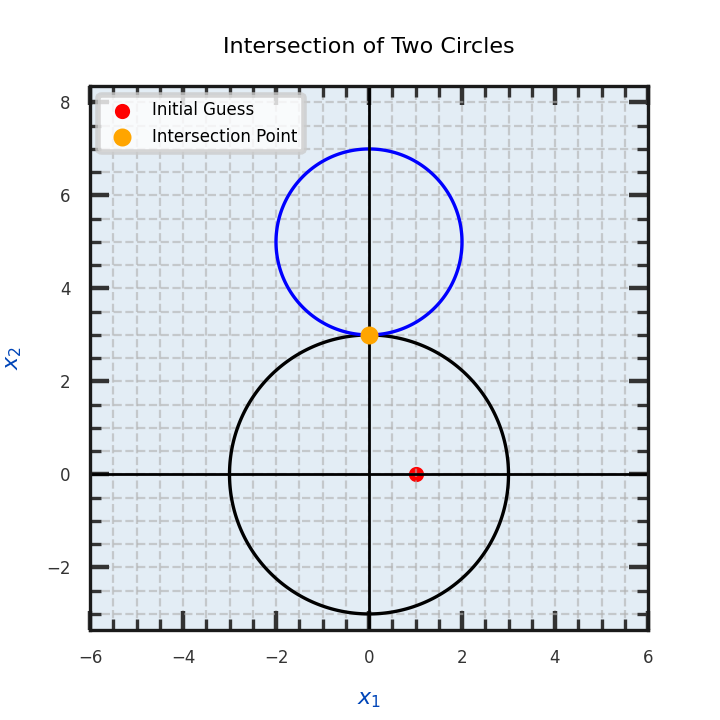
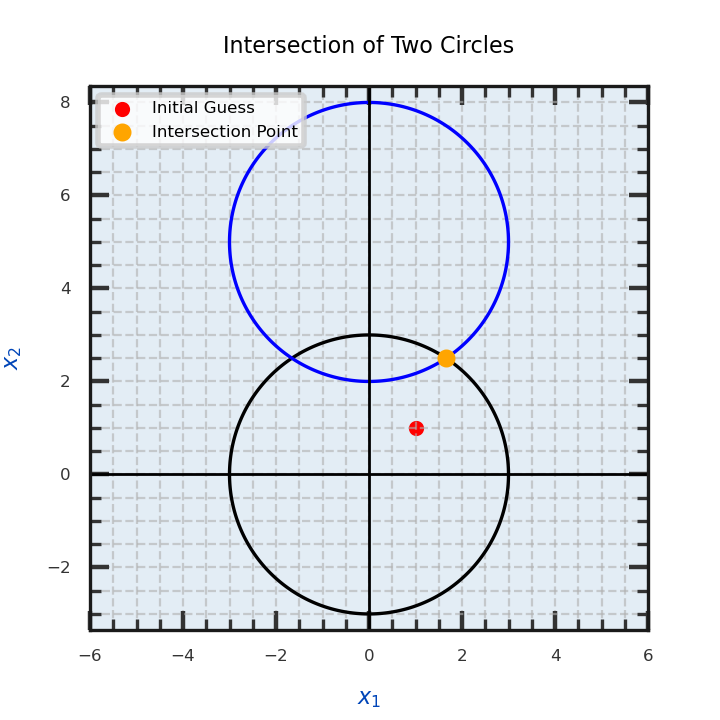
Add files via upload
before indexing

diff --git a/Abgabe/newton_examples.py b/Abgabe/newton_examples.py
@@ -52,7 +52,7 @@ def ex1(x_init):
     # Visualize the solution
     x1_vals = np.linspace(-3, 3, 400)
     x2_vals = np.linspace(-3, 3, 400)
-    #plot_intersection(f1, J1, x_init, 'Intersection of a Circle and a Hyperbola', x1_vals, x2_vals)
+    plot_intersection(f1, J1, x_init, 'Intersection of a Circle and a Hyperbola', x1_vals, x2_vals)
 
     return
 
@@ -101,14 +101,14 @@ def ex2(x_init):
     # Visualise the solution
     x1_vals = np.linspace(-6, 6, 400)
     x2_vals = np.linspace(-3, 8, 400)
-    #plot_intersection(f2, J2, x_init, 'Intersection of Two Circles', x1_vals, x2_vals)       
+    plot_intersection(f2, J2, x_init, 'Intersection of Two Circles', x1_vals, x2_vals)       
     return
 
-x_init = [1.0, 1.0]
-ex2(x_init)
+#x_init = [1.0, 1.0]
+#ex2(x_init)
 
 # Example 3: Three intersecting spheres
-def ex3():
+def ex3(x_init):
     # Function
     def f3(x):
         m1 = [2.0, 0.0, -1.0]
@@ -132,12 +132,7 @@ def ex3():
         [2 * (x[0] - 1.0), 2 * (x[1] - 2.0), 2 * (x[2] - 0.0)],
         [2 * (x[0] - 0.0), 2 * (x[1] - 0.0), 2 * (x[2] - (-2.0))]
         ])
-    
-    # Initial guess
-    #x_init = [1.0, 0.0, -1.0]
-    x_init = [-1.0, 0.0, 1.0] # am schnellsten!
-    #x_init = [-1.0, 0.0, -1.0]
-    
+        
     # MYSOLVER
     x, k_end = newton_method1(f3, J3, x_init)
     
@@ -177,6 +172,7 @@ def ex4(x_init):
 
     # MYSOLVER
     x, k_end = newton_method1(f4, J4, x_init)
+    print(k_end)
 
     # FSOLVER
     sol = fsolve(f4, x_init)  # Löse nichtlineares Gleichungssystem    
@@ -191,8 +187,15 @@ def ex4(x_init):
     # Visualise the solution
     x1_vals = np.linspace(-6, 6, 400)
     x2_vals = np.linspace(-3, 8, 400)
-    plot_intersection(f4, J4, x_init, 'Intersection of Two Circles', x1_vals, x2_vals)       
+    plot_intersection(f4, J4, x_init, 'Two Circles not intersecting', x1_vals, x2_vals)       
     return
 
-x_init = [1.0, 0.0] 
-ex4(x_init)
+
+
+#x_init = [1.0, 0.0] 
+#ex4(x_init)
+
+# Initial guess
+#x_init = [1.0, 0.0, -1.0]
+#x_init = [-1.0, 0.0, 1.0] # am schnellsten!
+#x_init = [-1.0, 0.0, -1.0]

diff --git a/Abgabe/newton_more_variables.py b/Abgabe/newton_more_variables.py
@@ -11,6 +11,7 @@ from scipy.optimize import fsolve
 from scipy.linalg import qr
 from num1a_p1_main import back_sub
 
+
 # MYSOLVER
 def newton_method1(f, J, x_init, tolerance = 1e-10, k_max=100):
     
@@ -29,37 +30,41 @@ def newton_method1(f, J, x_init, tolerance = 1e-10, k_max=100):
     if len(f(x)) != n_unknowns:
         raise ValueError("The number of equations must be equal to the number of unknowns.")
 
-    while k < k_max:
+    while k < k_max and (x < 1e6).any():
         res = f(x)  # Residual
-        
-        if np.linalg.norm(res) < TOL_res:
-            return x, k
         
         jacobian = J(x)
         
         # Check if the Jacobian is one-dimensional
         if jacobian.ndim == 1:
             inc = -res / jacobian
+    
         else:
             # Check for singular Jacobian matrix
             if np.linalg.det(jacobian) == 0:
-                print(k)
                 raise ValueError("Singular Jacobian matrix. Newton method may not converge.")
-                
             
             # Solve linear system using QR decomposition and backwards substitution
             Q, R = qr(jacobian)
             inc = back_sub(R, Q.T @ -res)
         
+        
+        # STOP Divergence check
+        if k >= 20 and np.linalg.norm(res[-2]) < np.linalg.norm(res[-1]) < np.linalg.norm(res[0]):
+            sol = fsolve(f, x_init)
+            raise ValueError(f"Newton method is diverging, breaking off at k = {k+1} with k_max = {k_max}, Estimated solution by fsolve:", sol)
+
+        
+        # STOP Convergence check
         if np.linalg.norm(inc) < TOL_inc and np.linalg.norm(res) < TOL_res:
             return x + inc, k               # returns updated x value(s)
         
         x += inc
         k += 1
-    
+
+
     else:
+        print(k)
         raise ValueError(f"Newton method did not converge for k_max = {k_max}.")
-
-
 
 
